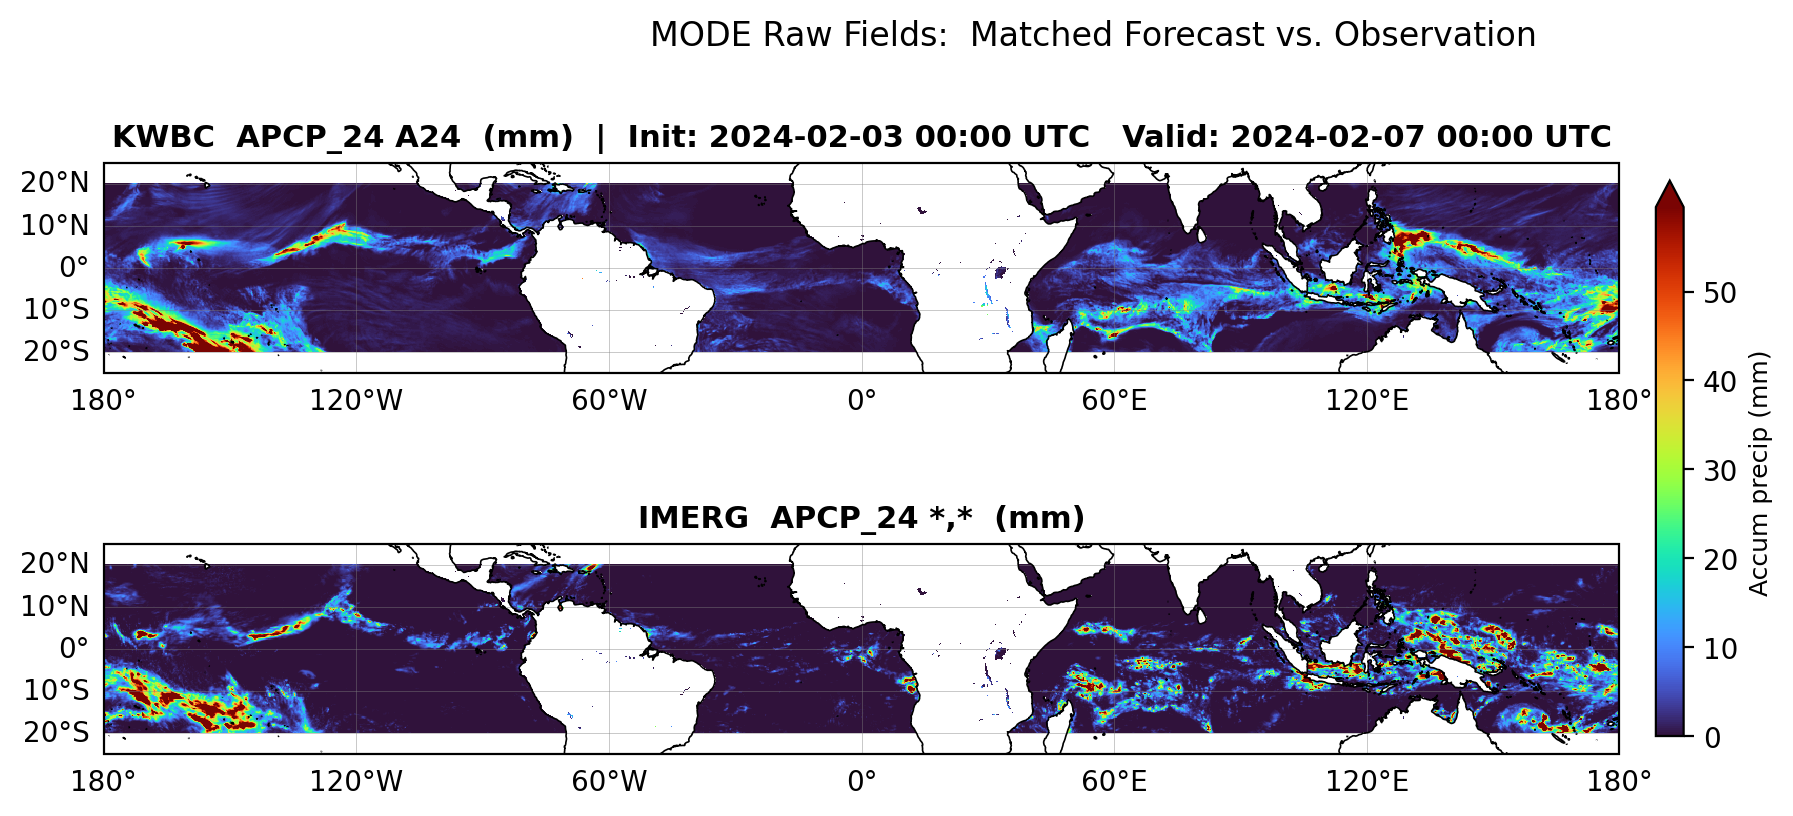
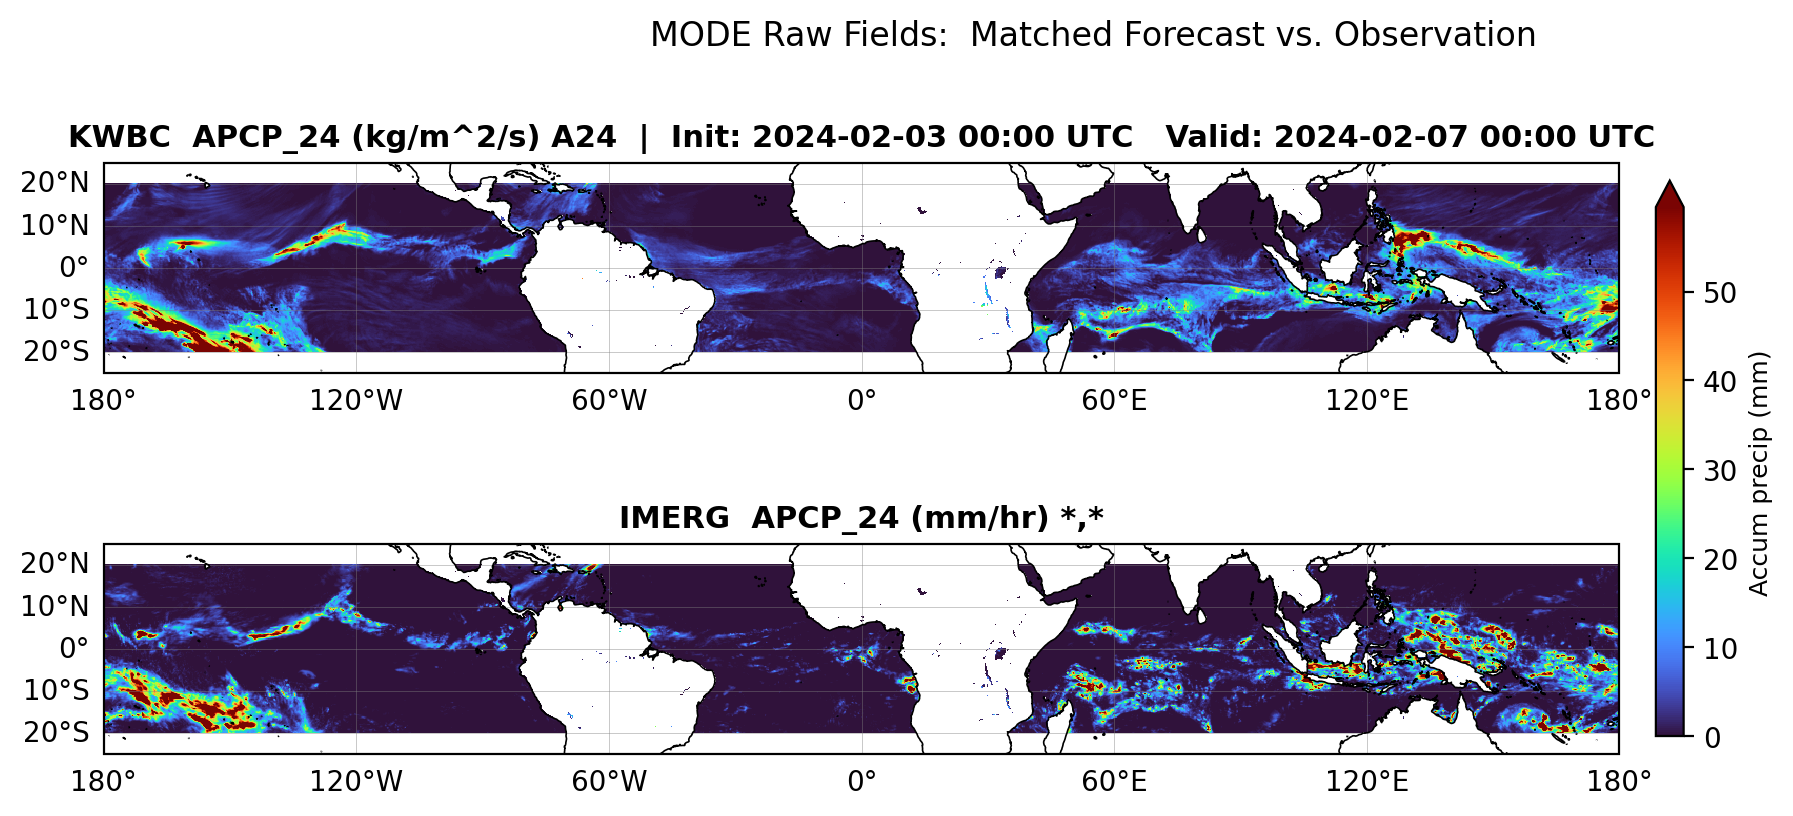
Fix duplicate and wrong units in MODE raw plot titles
The forecast title showed its units twice (from the file and a leftover
hard-coded "(mm)"), and the observation title used the forecast units.
Each raw panel title now shows its own units once, after the variable
name, as the objects titles do. Update the raw User's Guide figure and
expected test image.

Changed region(s): [[0.0312, 0.1532, 0.937, 0.1838], [0.3436, 0.6127, 0.6247, 0.674]]

diff --git a/metplotpy/plots/mode_field_plot/mode_field_plot.py b/metplotpy/plots/mode_field_plot/mode_field_plot.py
@@ -269,12 +269,8 @@ class ModeFieldPlot:
             fcst_time_line = "  |  " + "   ".join(parts)
         obs_time_line = f"  |  Valid: {obs_valid_str}" if obs_valid_str else ""
         titles = [
-            f"{d['model']}  {d['fcst_var']} ({d['fcst_units']}) {d['fcst_level']}  "
-            #        f"({d['fcst_units']}){fcst_time_line}",
-            f"(mm){fcst_time_line}",
-            f"{d['obtype']}  {d['obs_var']} {d['obs_level']}  "
-            #        f"({d['obs_units']}){obs_time_line}",
-            f"({d['fcst_units']})",
+            f"{d['model']}  {d['fcst_var']} ({d['fcst_units']}) {d['fcst_level']}{fcst_time_line}",
+            f"{d['obtype']}  {d['obs_var']} ({d['obs_units']}) {d['obs_level']}",
         ]
         fields = [fcst_plot, obs_plot]
 
